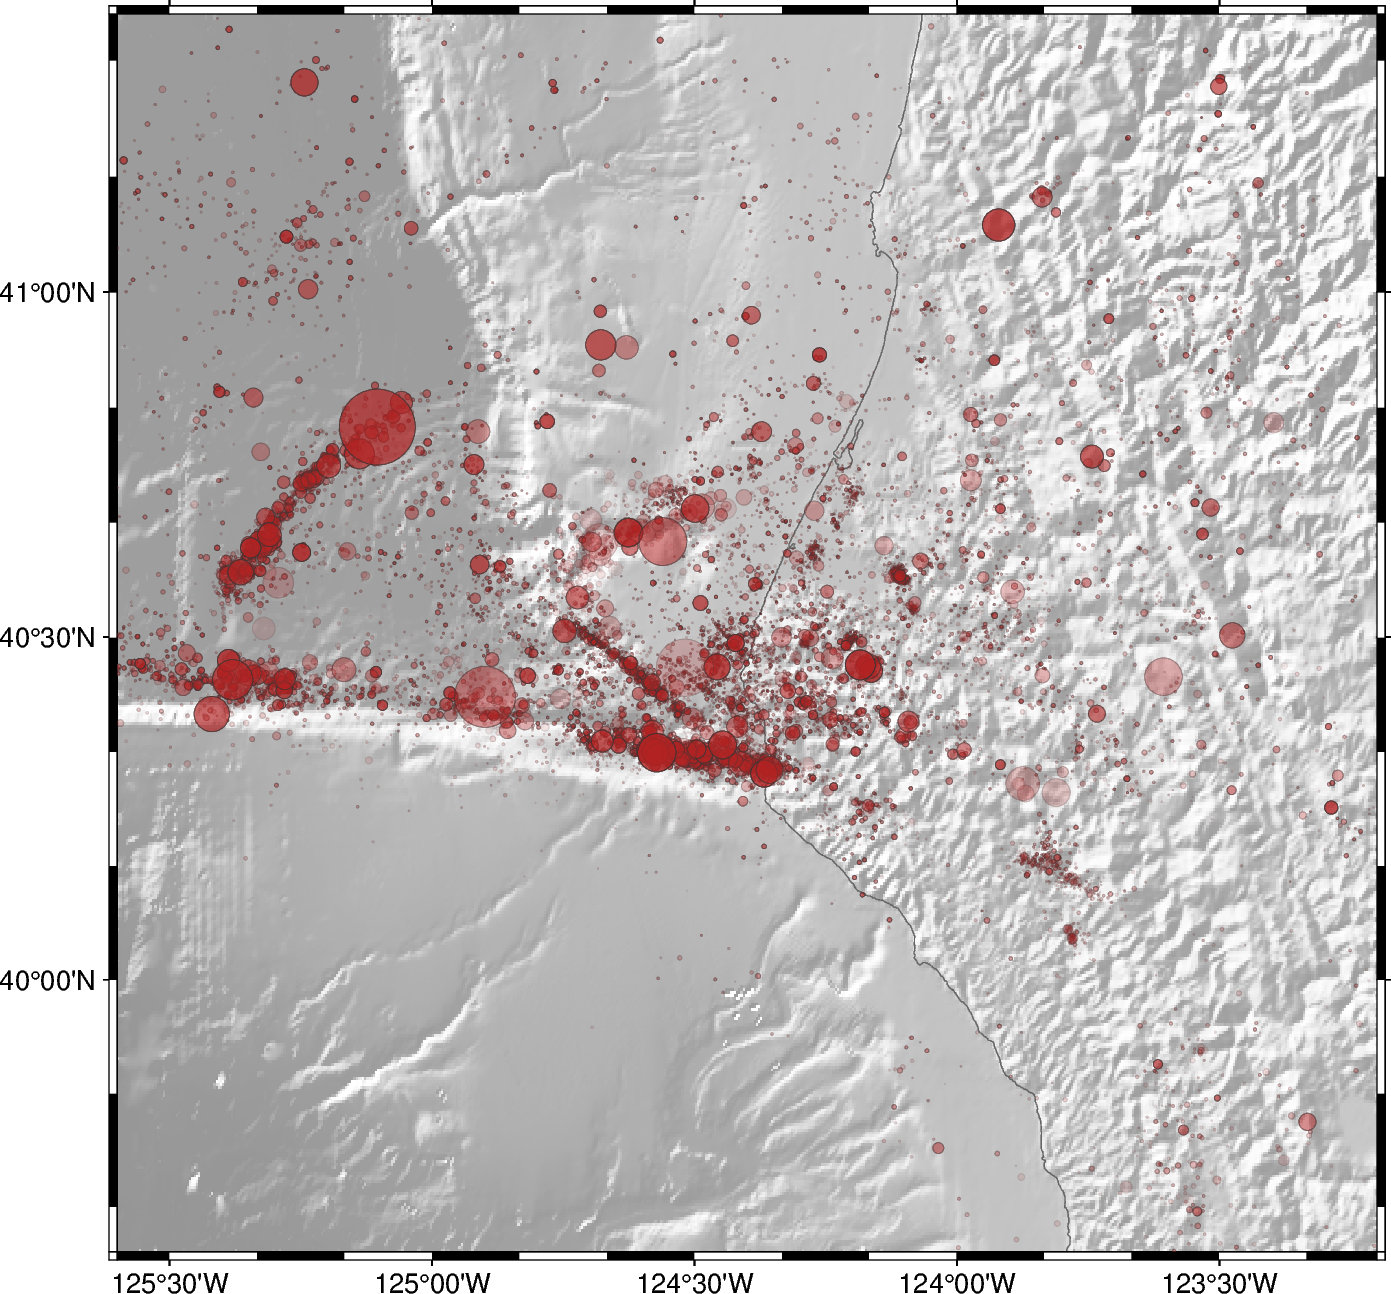
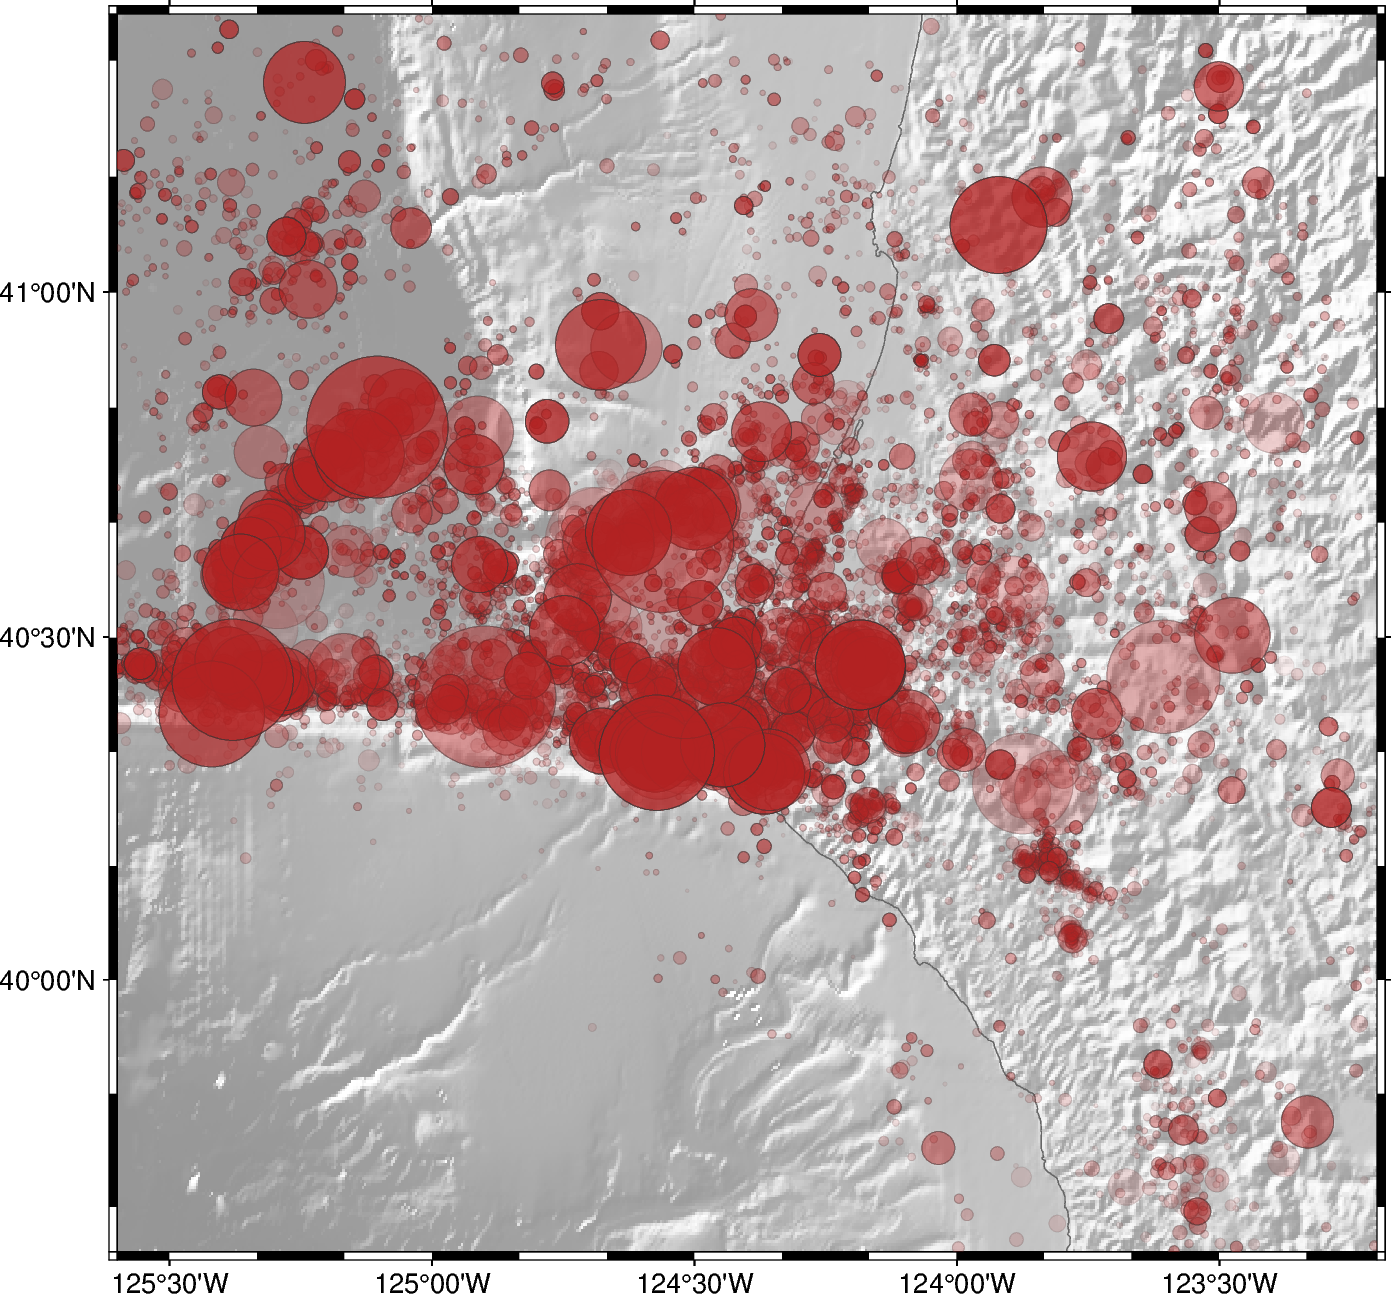
Fix zooms: bigger markers + relief fallback (no blank offshore maps)
- ml_to_size_cm gains a size scale; auto-enlarges markers on zooms (up to 3x) so events
  read at the tighter extent. Legend circles scale too.
- load_relief degrades 15s -> 02m instead of falling back to a blank basemap; 15s is
  only attempted for tight zooms (span<=3, e.g. puget) since the finer offshore tiles
  fail to download here. This restores relief on blanco/gorda/endeavour (which had gone
  blank) at 02m. --relief-res 15s forces finer where the network allows.

diff --git a/4_relocation/magnitude/phase5_pygmt_map.py b/4_relocation/magnitude/phase5_pygmt_map.py
@@ -28,10 +28,22 @@ import pygmt
 SLAB = "../../data/slab2/cas_slab2_dep.xyz"
 
 
-def ml_to_size_cm(ml):
+def ml_to_size_cm(ml, scale=1.0):
     """Marker diameter (cm) growing strongly with magnitude (exaggerated so large
-    events stand out); tiny for small events."""
-    return np.clip(0.018 * 3.0 ** (ml - 1.0), 0.006, 1.6)
+    events stand out); tiny for small events. `scale` enlarges markers on zooms."""
+    return np.clip(scale * 0.018 * 3.0 ** (ml - 1.0), 0.006 * scale, 1.8)
+
+
+def load_relief(region, prefer):
+    """Load gray shaded relief, degrading to 02m rather than a blank basemap. The finest
+    (15s) tiles can fail to download for the larger offshore boxes, so we only prefer
+    15s for tight zooms and always fall back to the reliable 02m grid."""
+    for res in dict.fromkeys([prefer, "02m"]):      # single attempt each, 02m last
+        try:
+            return pygmt.datasets.load_earth_relief(resolution=res, region=region), res
+        except Exception:
+            continue
+    return None, None
 
 
 def picks_to_transparency(n, ref, t_opaque=2.0, t_faint=92.0):
@@ -75,6 +87,8 @@ def main(argv=None):
                    help="earth-relief resolution ('auto' = 15s for zooms, 02m full)")
     p.add_argument("--slab-contours", action="store_true",
                    help="overlay Slab2 interface depth contours (10 km interval)")
+    p.add_argument("--size-scale", type=float, default=None,
+                   help="marker size multiplier (default: auto, larger on zooms)")
     p.add_argument("--legend", dest="legend", action="store_true", default=None,
                    help="draw the size/opacity legends (default: only on the full map)")
     p.add_argument("--no-legend", dest="legend", action="store_false")
@@ -101,24 +115,29 @@ def main(argv=None):
     n_in = int(((df.evlo.between(xmin, xmax)) & (df.evla.between(ymin, ymax))).sum())
     picks = df["nass"].to_numpy() if args.mode == "confidence" else None
 
+    span = xmax - xmin
+    # markers scale up on zooms so events read at the tighter extent
+    sscale = args.size_scale if args.size_scale else float(np.clip(8.0 / span, 1.0, 3.0))
+
     fig = pygmt.Figure()
     proj = "M16c"
-    # finer relief for the regional zooms (15s ~ 450 m), 02m for the full margin
-    res = args.relief_res
-    if res == "auto":
-        res = "15s" if (xmax - xmin) <= 5 else "02m"
-    try:                                             # gray, semi-transparent shaded relief
-        grid = pygmt.datasets.load_earth_relief(resolution=res, region=region)
+    # finer relief for the regional zooms (15s ~ 450 m), 02m for the full margin;
+    # load_relief degrades 15s -> 30s -> 02m rather than falling back to a blank map.
+    prefer = args.relief_res
+    if prefer == "auto":                             # 15s only for tight zooms
+        prefer = "15s" if span <= 3 else "02m"
+    grid, res = load_relief(region, prefer)
+    if grid is not None:
         pygmt.makecpt(cmap="gray", series=[-6000, 4000])
         fig.grdimage(grid, region=region, projection=proj, cmap=True,
                      shading="+a315+nt1.2", transparency=45)
         fig.coast(region=region, projection=proj, shorelines="0.3p,gray40")
-    except Exception as e:
-        print("relief unavailable, plain basemap:", e)
+    else:
+        print("relief unavailable, plain basemap")
         fig.coast(region=region, projection=proj, land="gray95", water="white",
                   shorelines="0.3p,gray40")
 
-    size = ml_to_size_cm(df["ML"].to_numpy())
+    size = ml_to_size_cm(df["ML"].to_numpy(), sscale)
     # no in-figure title: the caption lives in the manuscript
     fig.basemap(region=region, projection=proj, frame=["af", "WSne"])
 
@@ -149,7 +168,7 @@ def main(argv=None):
                  font="10p,Helvetica-Bold,black")
         for i, m in enumerate([1, 2, 3, 4]):
             y = ly0 - i * step
-            fig.plot(x=[lx], y=[y], size=[ml_to_size_cm(m)], style="cc",
+            fig.plot(x=[lx], y=[y], size=[ml_to_size_cm(m, sscale)], style="cc",
                      fill="white", pen="0.5p,black")
             fig.text(x=lx + 0.05 * sx, y=y, text=f"ML {m}", justify="LM", font="9p,black")
         if args.mode == "confidence":
